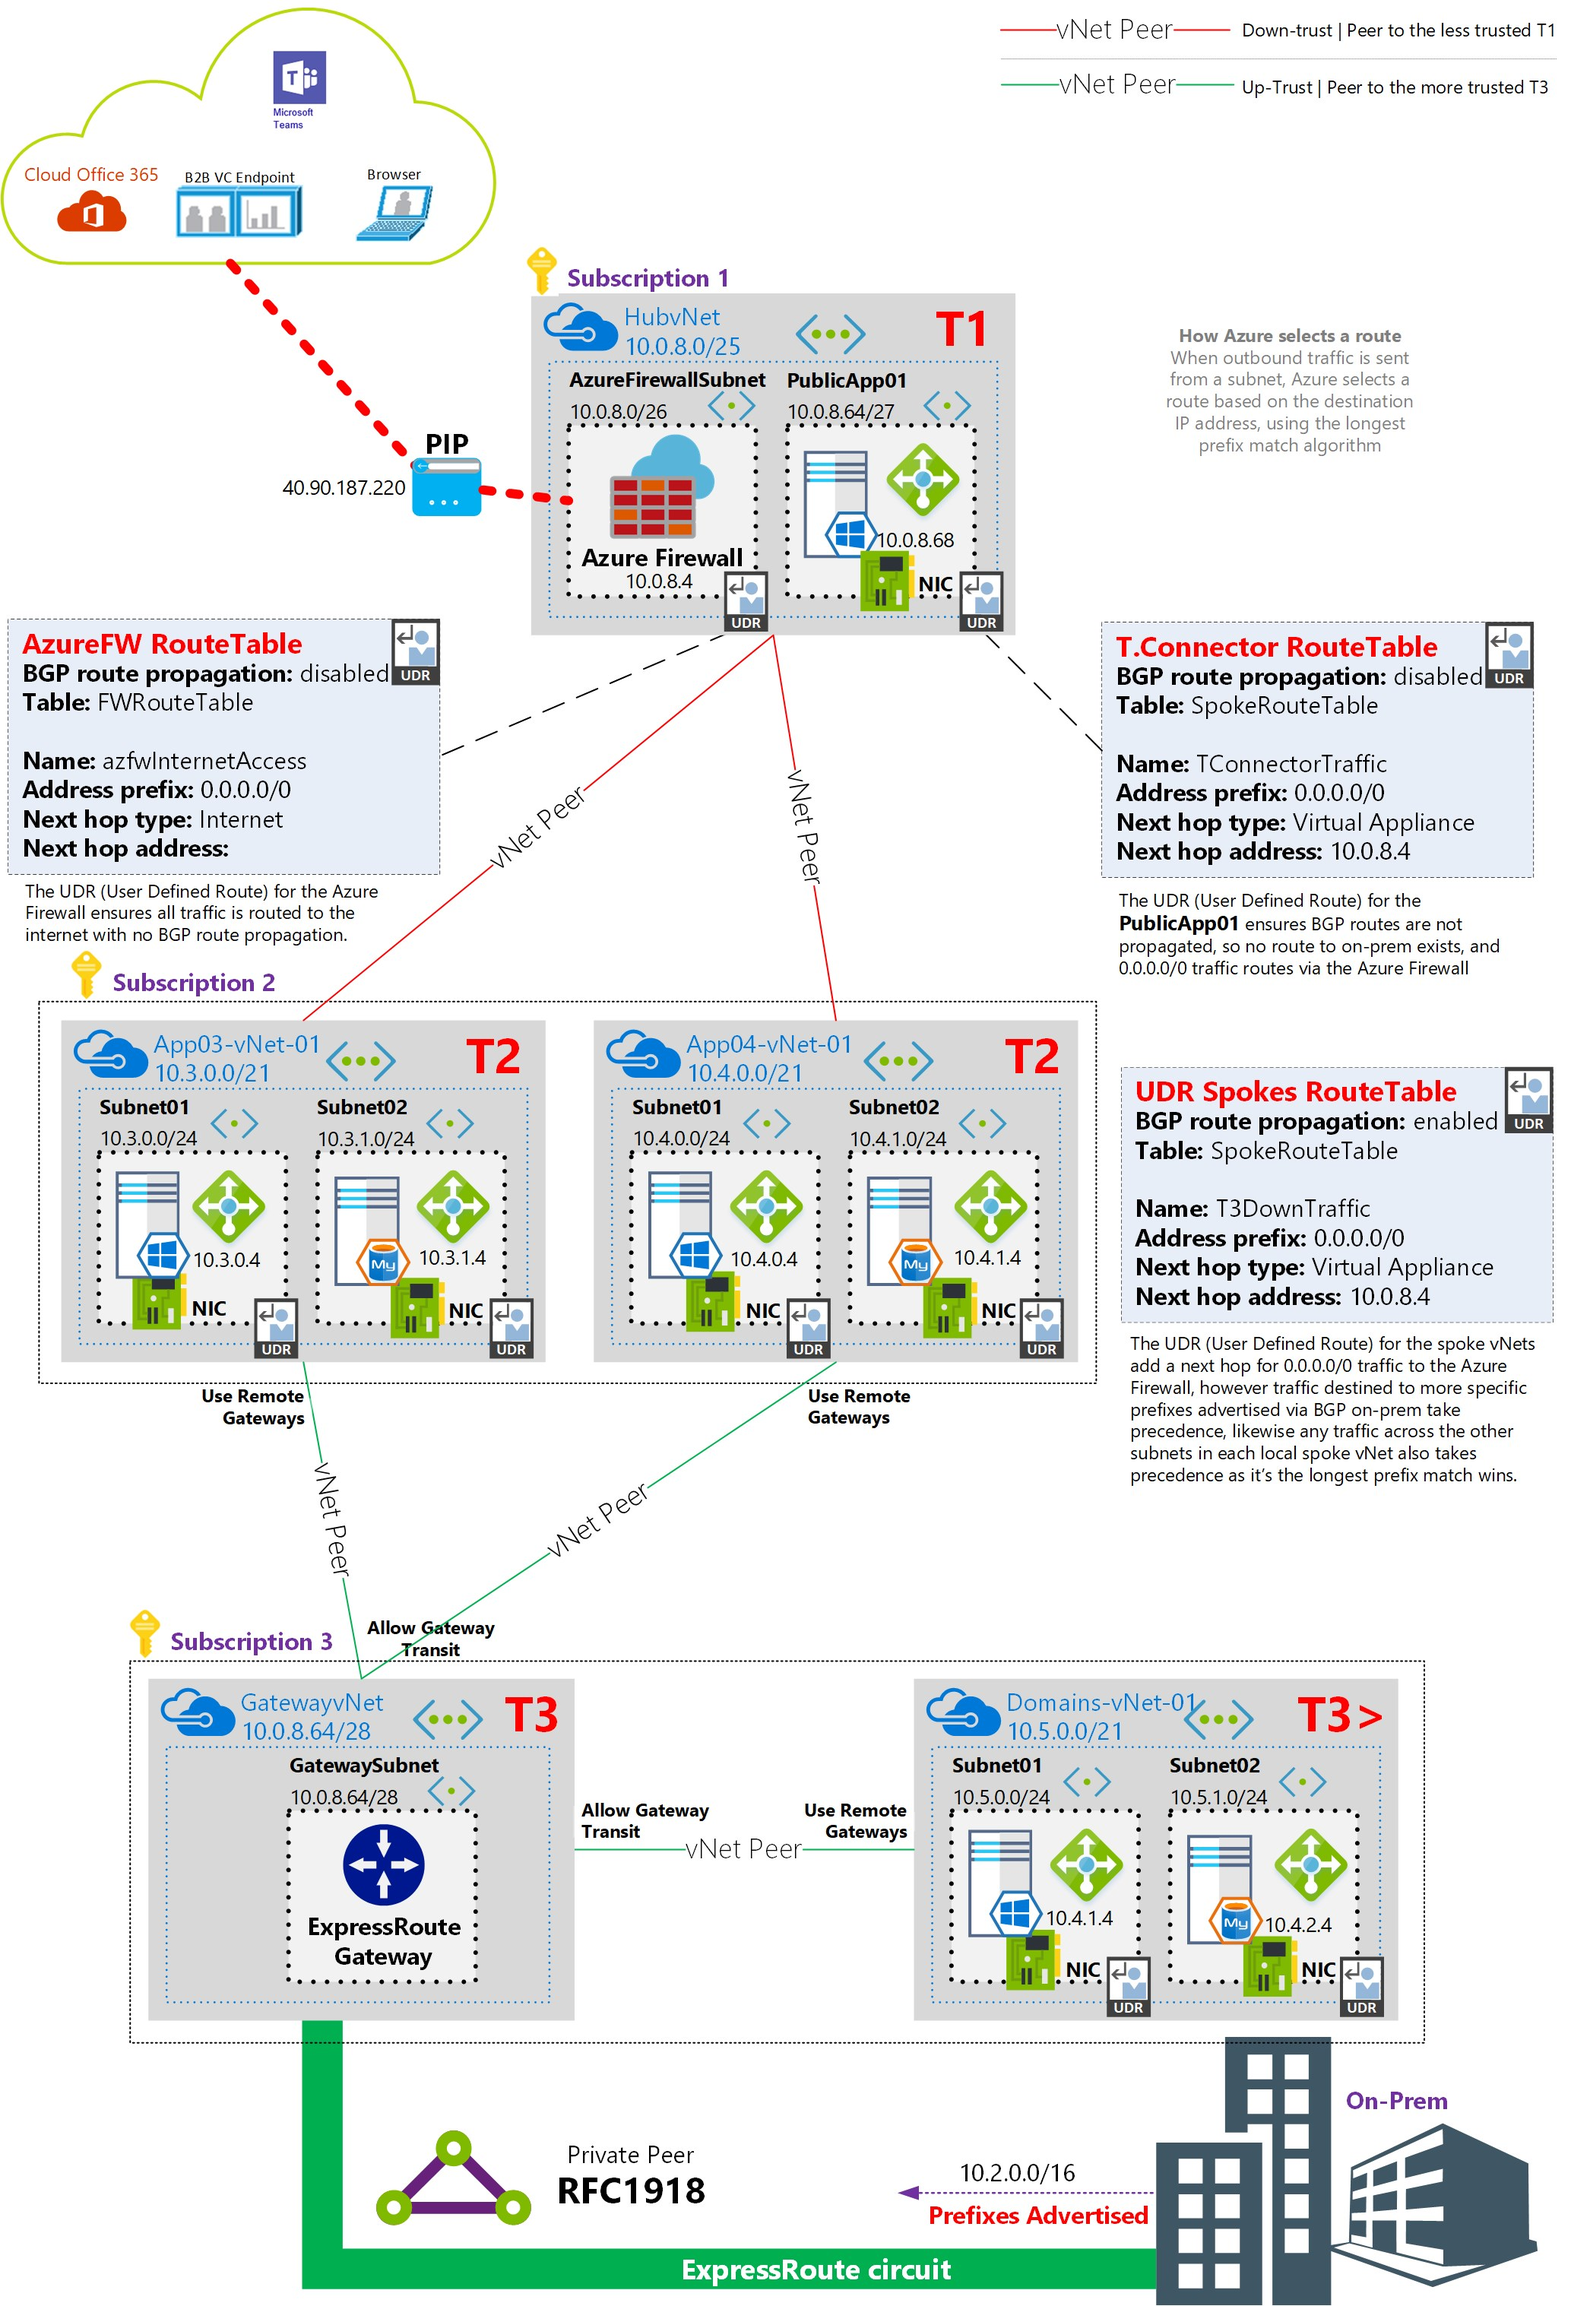
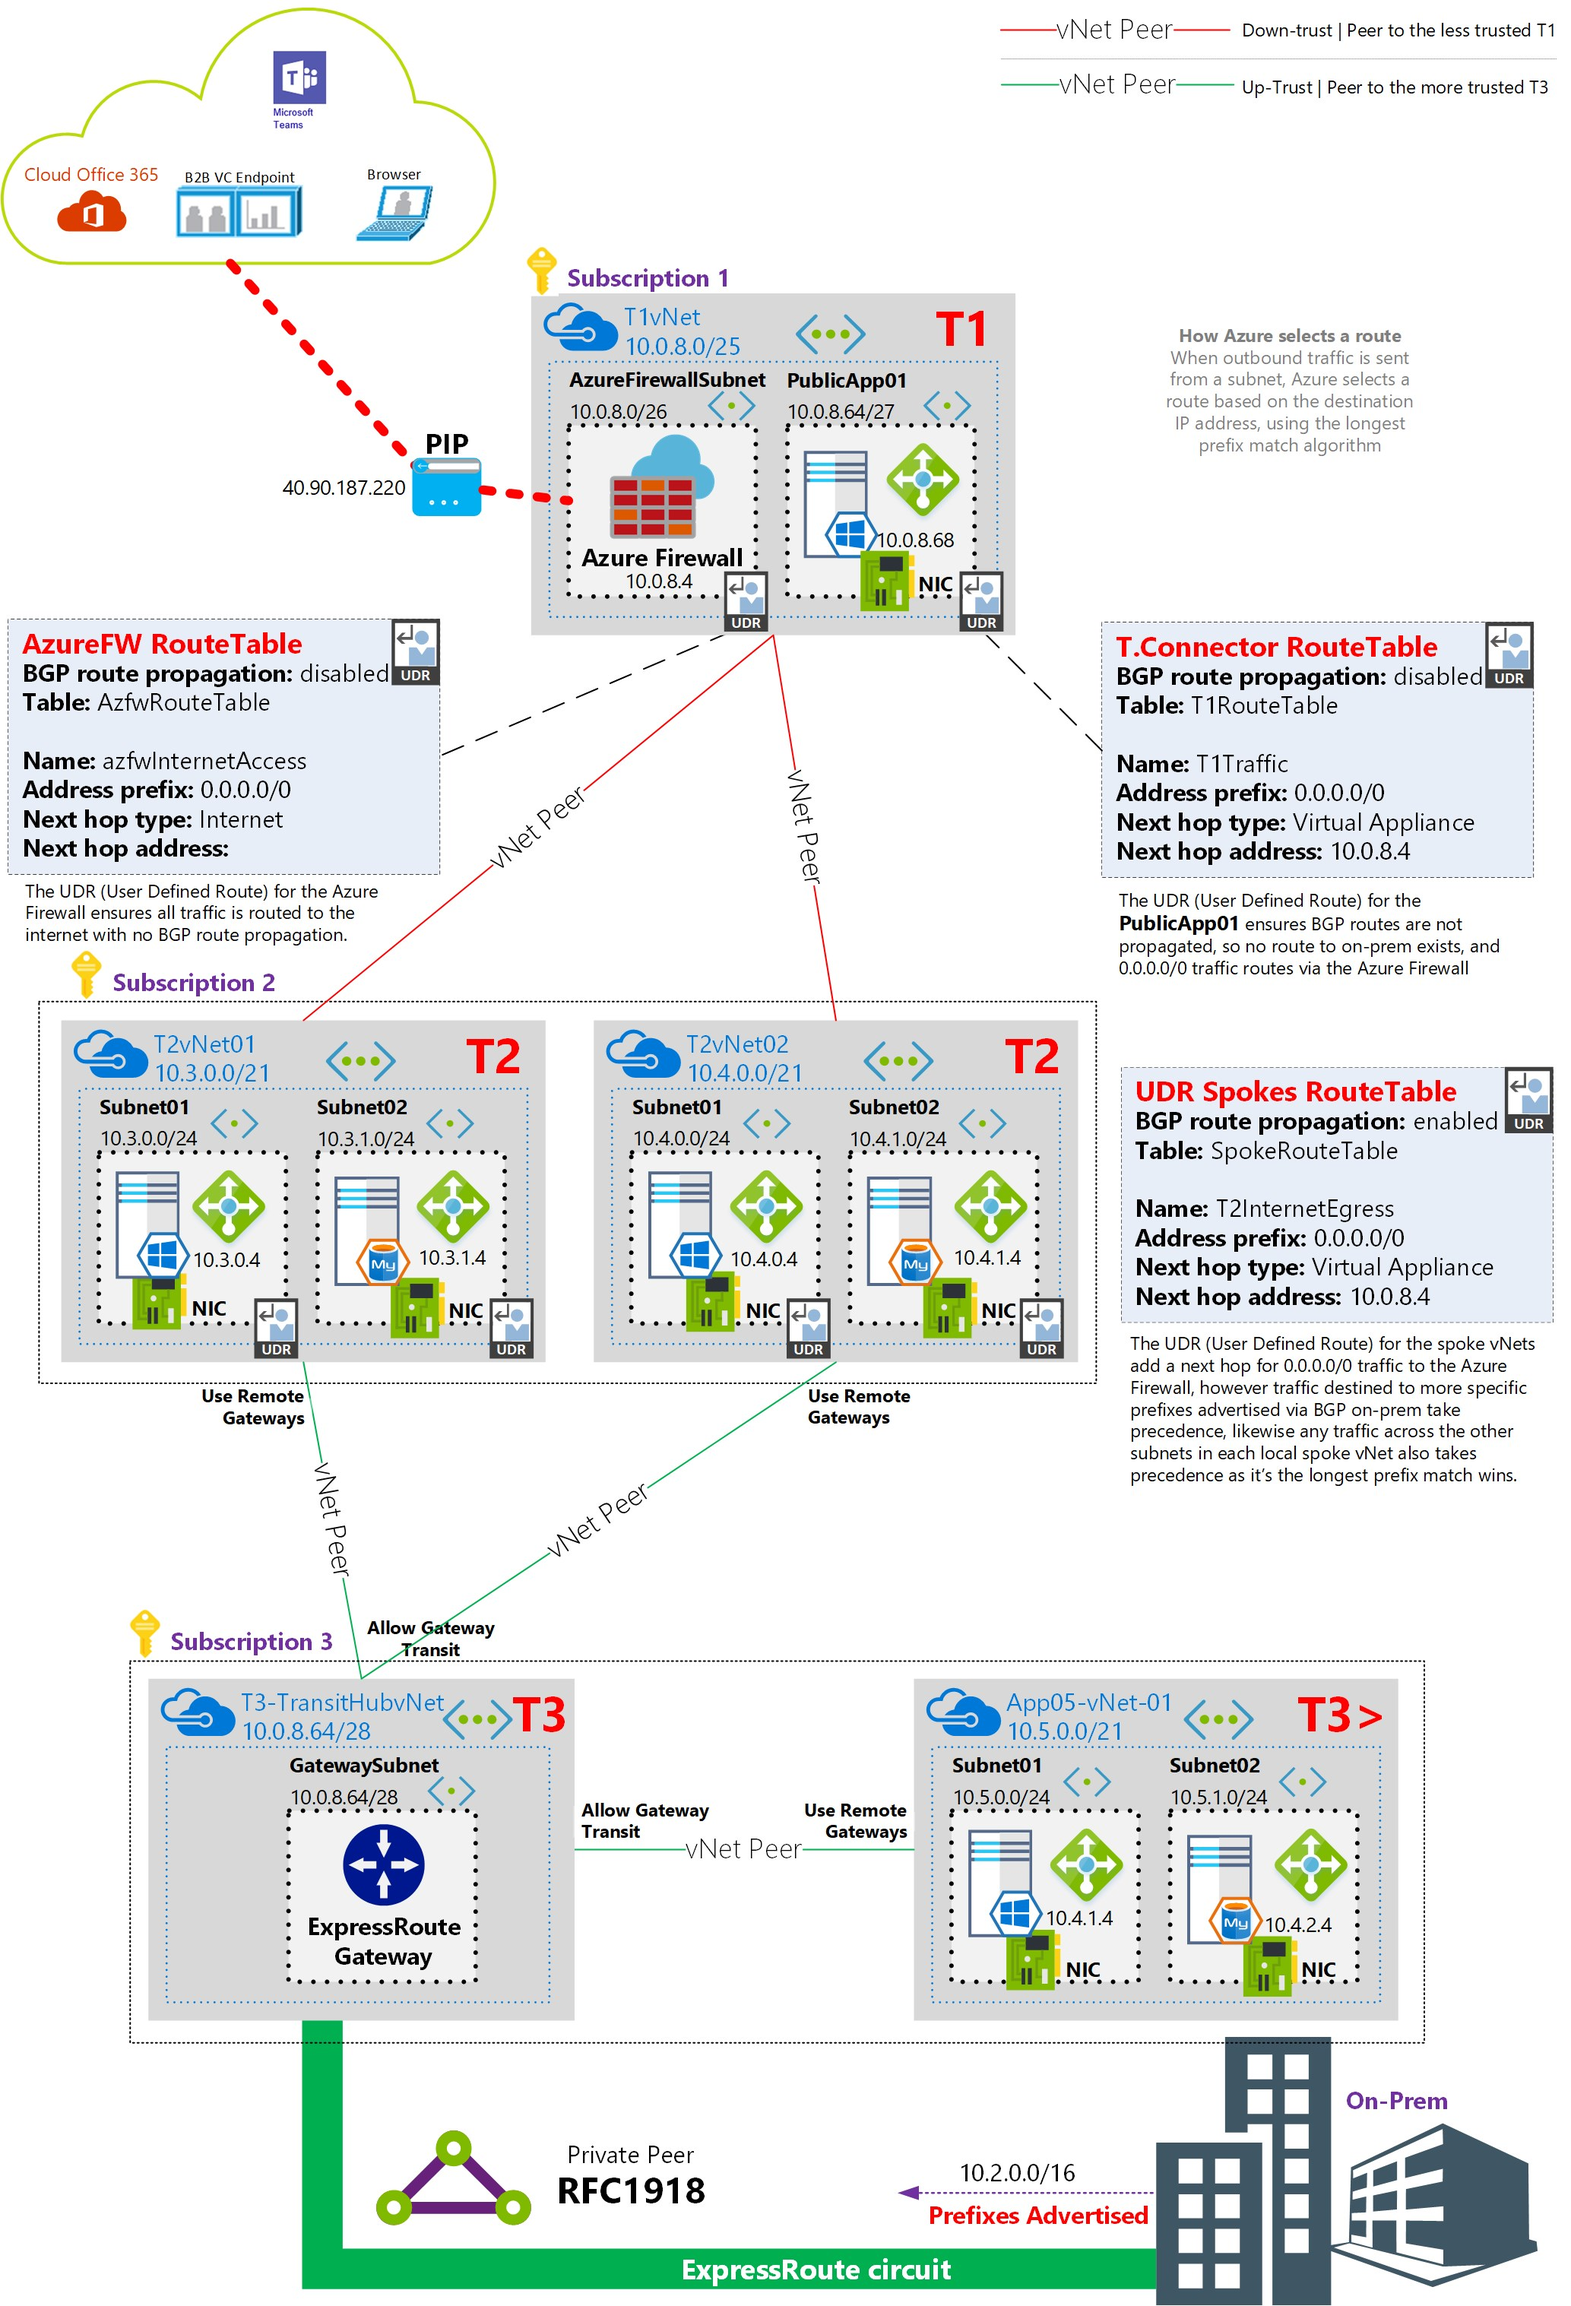
.

diff --git a/README.md b/README.md
@@ -1,9 +1,29 @@
-# The Azure 3 Tier Network
-For the serious security concious, this is one way to do networks from within Azure. In brief, the T1 vNet can't talk directly with the T3 vNet and vice versa. 
+## The Azure 3 Tier Network
+This is a 5 part series of templates to deploy a glorified 3 tier Azure network
+1. https://github.com/marckean/Azure-T1-Network
+    - Resource Group based template
+2. https://github.com/marckean/Azure-T2-Network
+    - Resource Group based template
+1. https://github.com/marckean/Azure-T3-Network
+    - Resource Group based template
+1. https://github.com/marckean/Azure-T3plus-Network
+    - Resource Group based template
+1. https://github.com/marckean/vNetPeerings
+    - Subscription based template
+
+| Description |
+|:--- |:--- |:--- |
+|Resource group deployments deploy to resource groups and use schema: `https://schema.management.azure.com/schemas/2015-01-01/deploymentTemplate.json#`<br><br>Subscription deployments deploy to subscriptions and use schema: `https://schema.management.azure.com/schemas/2018-05-01/subscriptionDeploymentTemplate.json#` |
+
+For the serious security concious, this is one way to achieve super tight network security within Azure. In brief:
+- the T1 vNet can't talk directly with the T3 Transit Hub vNet 
+- the T3 Transit Hub vNet can't talk directly with the T1 vNet
 
 <p align="center">
   <img src="AzureNetworkT1,T2,T3.jpg" width=80%>
 </p>
+
+# Part 5
 
 ## Azure-T2-Network
 This repo is for the Tier 2 part of the 3 tier network.
